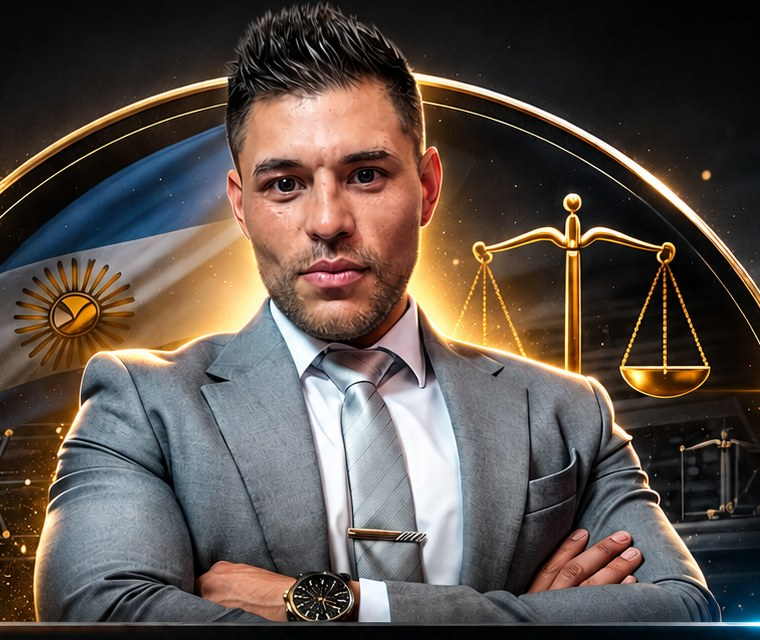
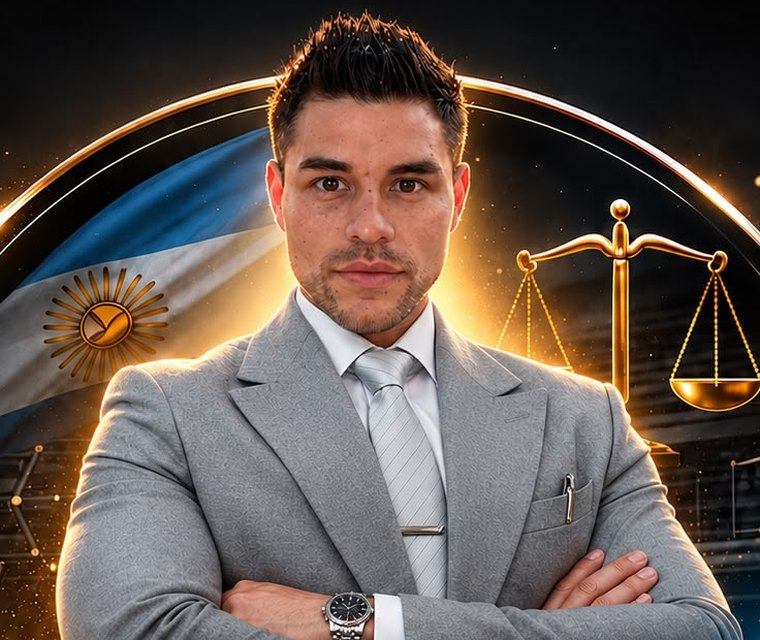
first commit foto 4

diff --git a/index.html b/index.html
@@ -14,11 +14,11 @@
 <meta property="og:site_name" content="Recupera Tu Cuenta">
 <meta property="og:title" content="Recupera Tu Cuenta | Gestión legal de cuentas de Instagram y Facebook inhabilitadas">
 <meta property="og:description" content="¿Te inhabilitaron Instagram o Facebook? Gestión legal ante Meta para recuperar cuentas inhabilitadas de particulares, emprendedores, creadores y empresas. Contanos tu caso.">
-<meta property="og:image" content="https://i.imgur.com/cQdFTBM.jpeg">
+<meta property="og:image" content="https://i.imgur.com/lnOSpQi.jpeg">
 <meta property="og:image:width" content="1254">
 <meta property="og:image:height" content="1254">
 <meta name="twitter:card" content="summary">
-<meta name="twitter:image" content="https://i.imgur.com/cQdFTBM.jpeg">
+<meta name="twitter:image" content="https://i.imgur.com/lnOSpQi.jpeg">
 <meta name="twitter:title" content="Recupera Tu Cuenta | Gestión legal de cuentas de Instagram y Facebook inhabilitadas">
 <meta name="twitter:description" content="¿Te inhabilitaron Instagram o Facebook? Gestión legal ante Meta para recuperar cuentas inhabilitadas de particulares, emprendedores, creadores y empresas. Contanos tu caso.">
 <link rel="preconnect" href="https://fonts.googleapis.com">

diff --git a/privacidad.html b/privacidad.html
@@ -10,9 +10,9 @@
 <link rel="icon" type="image/png" href="./favicon.png">
 <meta property="og:type" content="website">
 <meta property="og:site_name" content="Recupera Tu Cuenta">
-<meta property="og:image" content="https://i.imgur.com/cQdFTBM.jpeg">
+<meta property="og:image" content="https://i.imgur.com/lnOSpQi.jpeg">
 <meta name="twitter:card" content="summary">
-<meta name="twitter:image" content="https://i.imgur.com/cQdFTBM.jpeg">
+<meta name="twitter:image" content="https://i.imgur.com/lnOSpQi.jpeg">
 <link rel="preconnect" href="https://fonts.googleapis.com">
 <link rel="preconnect" href="https://fonts.gstatic.com" crossorigin>
 <link href="https://fonts.googleapis.com/css2?family=Epilogue:ital,wght@0,400;0,500;0,600;0,700;0,800;1,800&family=Onest:wght@400;500;600&display=swap" rel="stylesheet">

diff --git a/_scripts/cierre_seo.py b/_scripts/cierre_seo.py
@@ -37,7 +37,7 @@ def clean(s):
 for f, (path, _) in PAGES.items():
     s = open(f, encoding="utf8").read()
     s = clean(s)
-    OG = "https://i.imgur.com/cQdFTBM.jpeg"   # badge original subido por Axel
+    OG = "https://i.imgur.com/lnOSpQi.jpeg"   # badge original subido por Axel
     s = set_meta(s, "property", "og:image", OG)
     s = set_meta(s, "name", "twitter:image", OG)
     s = set_meta(s, "property", "og:url", DOM + path)
@@ -45,7 +45,7 @@ for f, (path, _) in PAGES.items():
     if f == "index.html":
         m = re.search(r'<script type="application/ld\+json">\s*(\{.*?\})\s*</script>', s, re.S)
         data = json.loads(m.group(1))
-        data.update({"@id": DOM + "/#estudio", "url": DOM + "/", "image": "https://i.imgur.com/cQdFTBM.jpeg", "logo": DOM + "/favicon.png"})
+        data.update({"@id": DOM + "/#estudio", "url": DOM + "/", "image": "https://i.imgur.com/lnOSpQi.jpeg", "logo": DOM + "/favicon.png"})
         s = s.replace(m.group(0), '<script type="application/ld+json">\n' + json.dumps(data, ensure_ascii=False, indent=2) + "\n</script>")
     open(f, "w", encoding="utf8", newline="\n").write(s); print("ok", f)
 
